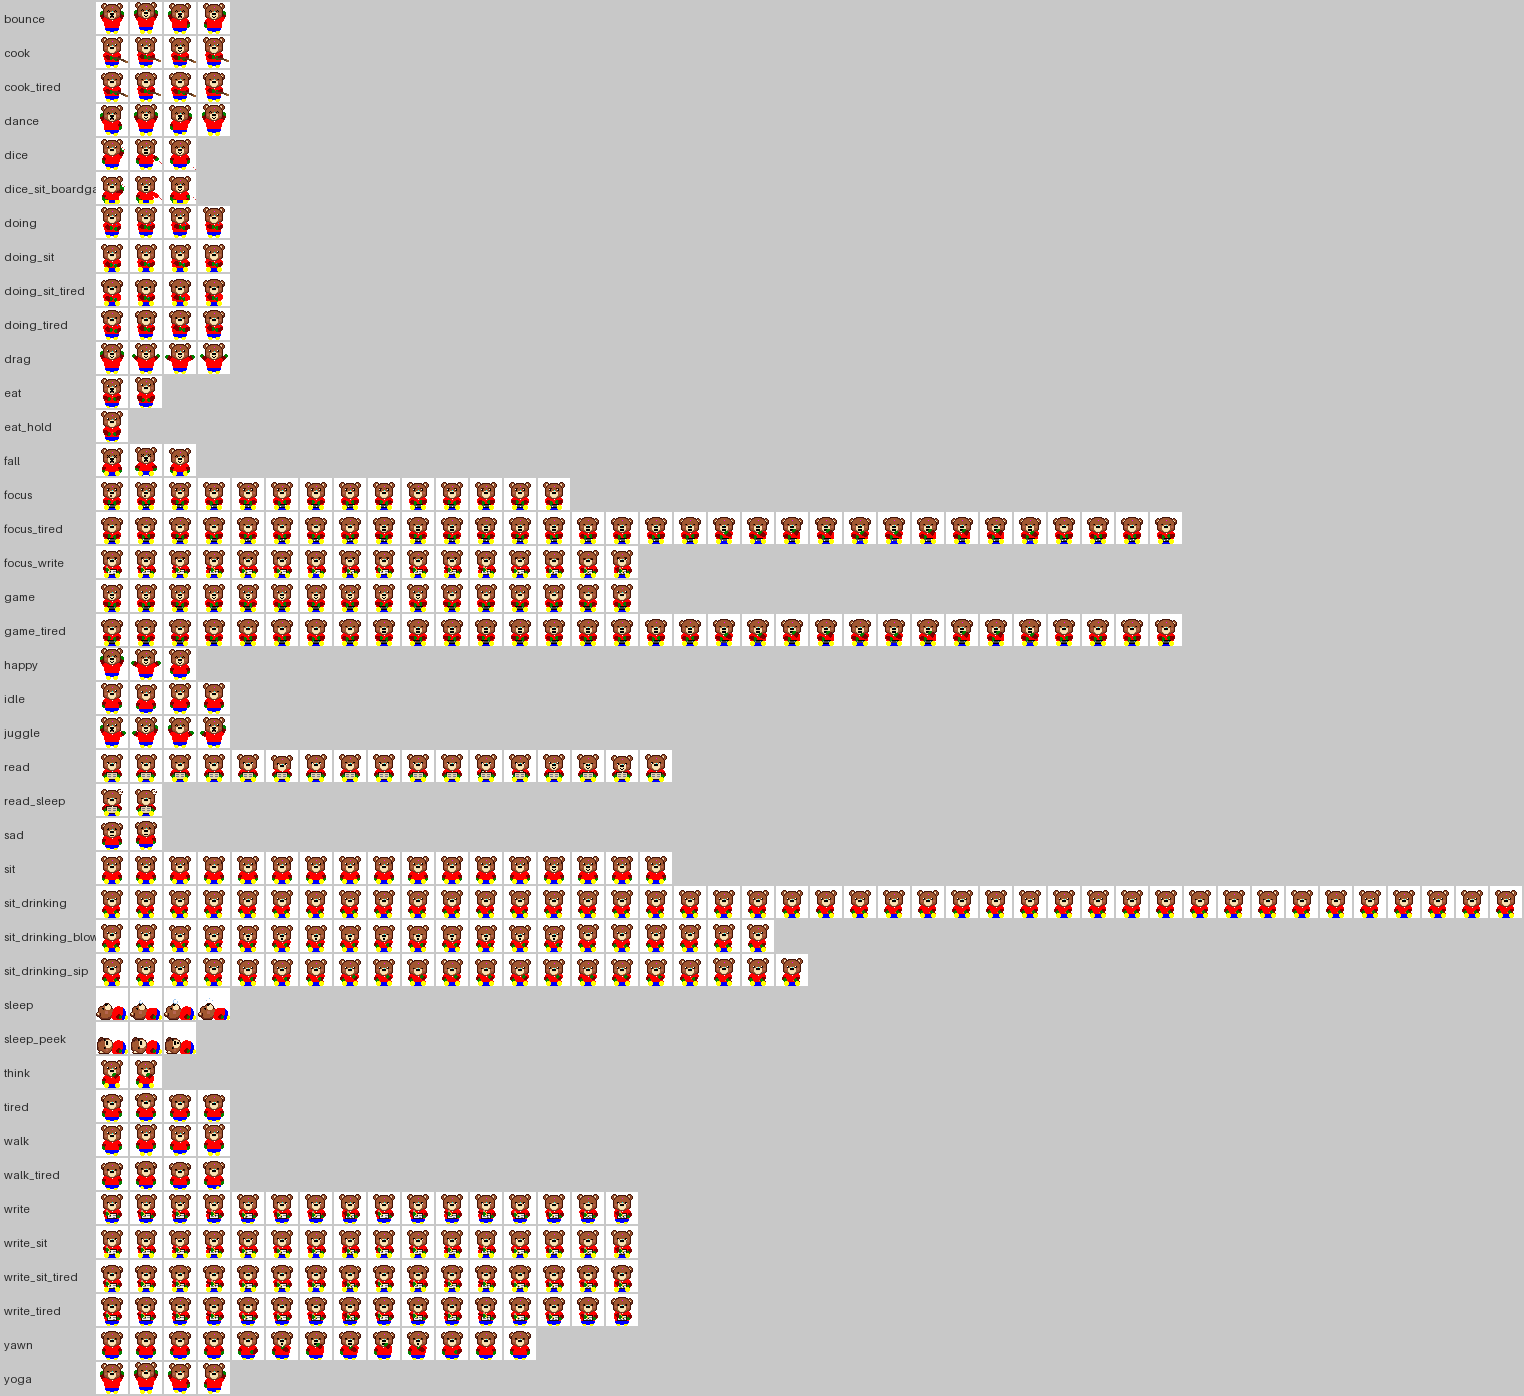
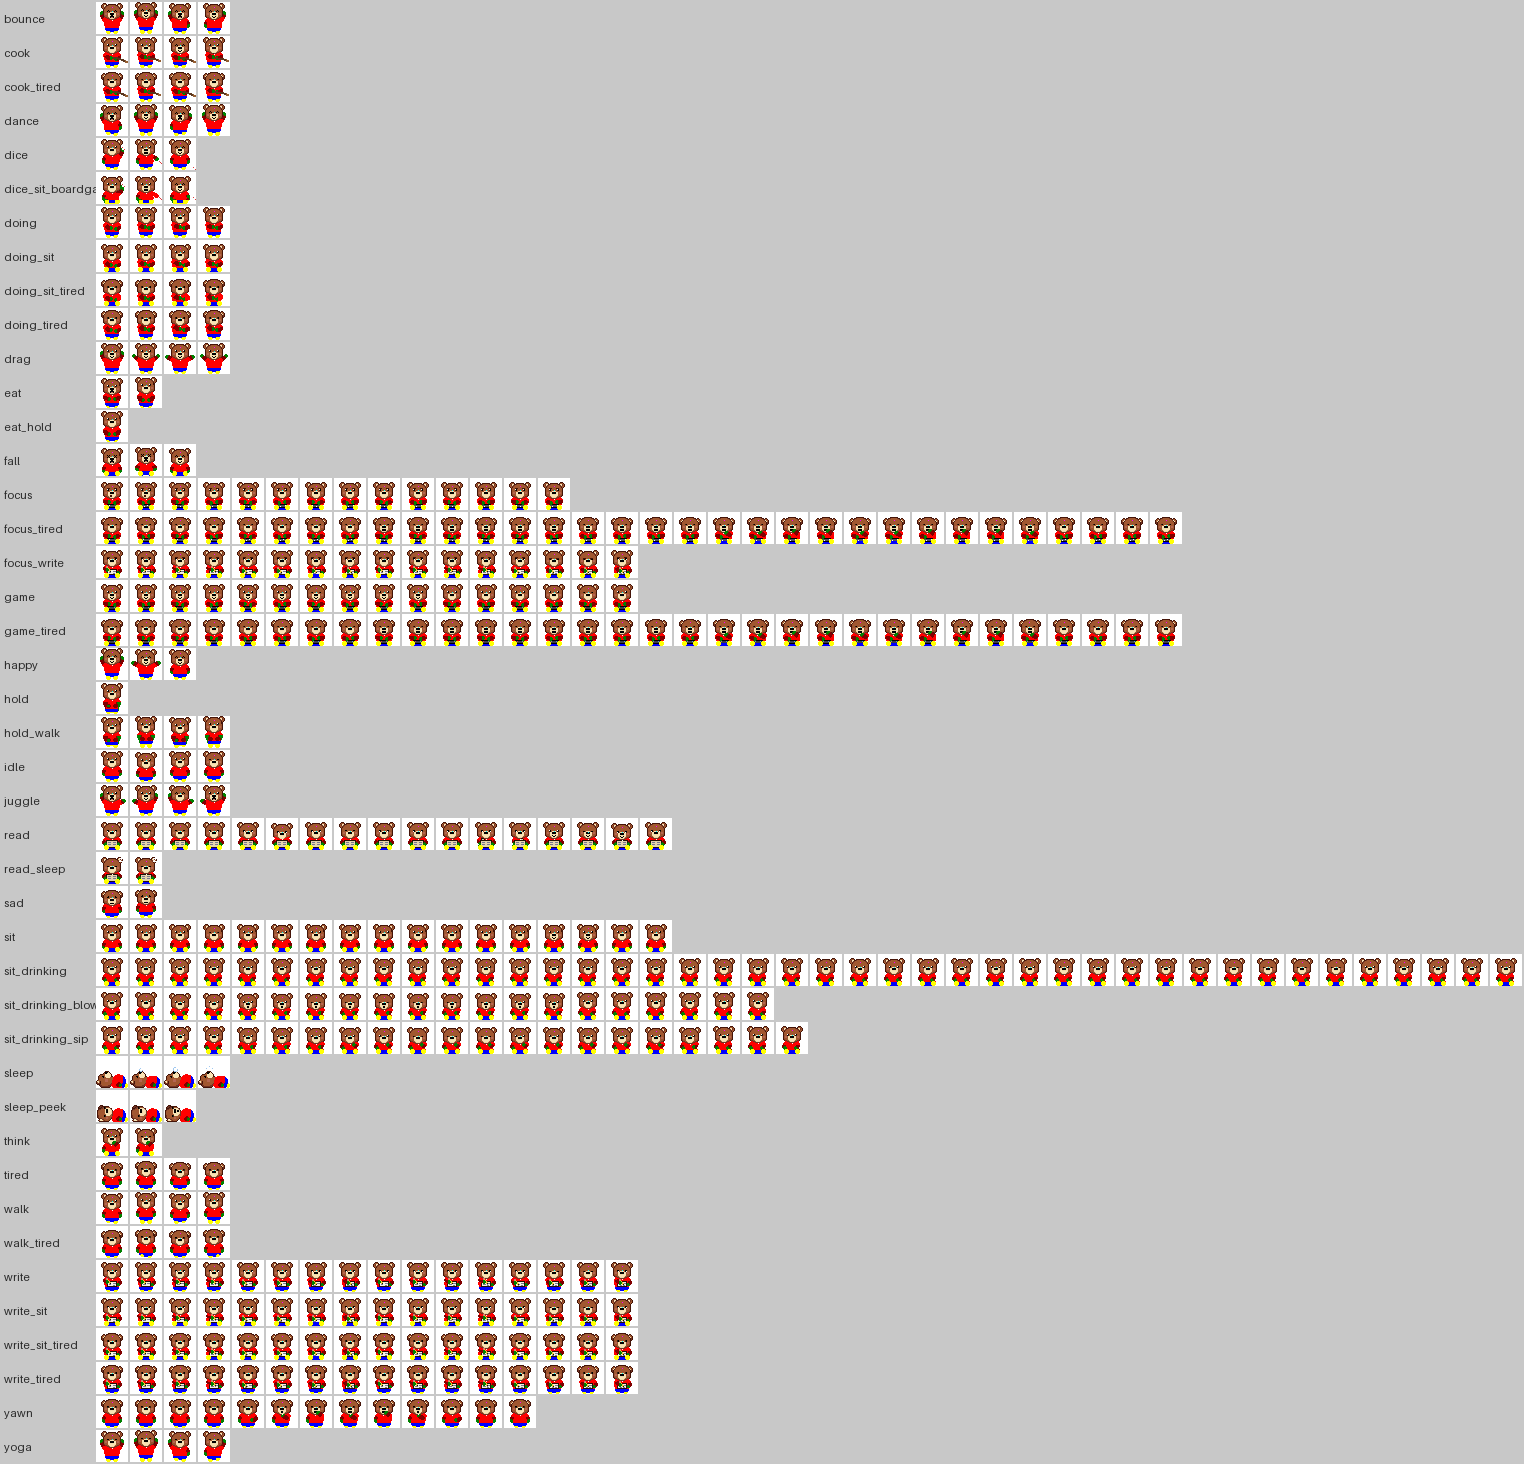
hold_sheet: one sheet with only the blue dot for everything the bear holds (brush/can/cards, food, cup, gift, pot – doing*, eat*, sit_drinking*, hold, hold_walk); the clothes sheet has all 43 animations and no held-item dots; the gift and the pot in the paws sit on the blue dot when there is one
Claude-Session: https://claude.ai/code/session_018yUitM4zMV3L9odfX6GAV1

diff --git a/tools/clothes_sheet.py b/tools/clothes_sheet.py
@@ -4,8 +4,8 @@
     python tools/clothes_sheet.py import       чете маркирания лист (done_art/clothes_sheet.png)
     python tools/clothes_sheet.py new a b c    лист само с тези анимации (clothes_sheet_new*.png)
     python tools/clothes_sheet.py import done_art/clothes_sheet_new.png
-    python tools/clothes_sheet.py points        лист само за синята точка (предмета в лапата)
-    python tools/clothes_sheet.py import-points чете го (done_art/tool_points.png)
+    python tools/clothes_sheet.py hold          hold_sheet: само синята точка – какво държи в лапите
+    python tools/clothes_sheet.py import-hold   чете го (done_art/hold_sheet.png)
 
 art_templates/clothes_sheet.png – мечокът без дрехи, кадрите един до друг, по
 един ред на анимация (размерът е 1:1, пиксел за пиксел). Тут го отваря в
@@ -35,7 +35,8 @@ SIZE, GAP, LABEL = 32, 2, 96
 
 
 def anims():
-    return ac.all_anims()   # нарисуваните, които ги има (без махнатите)
+    """Всички анимации на мечока, които ги има в assets/bear."""
+    return sorted(os.path.splitext(f)[0] for f in os.listdir(BEAR) if f.endswith(".png"))
 
 
 def layout(names=None):
@@ -67,7 +68,8 @@ def export(names=None, out="clothes_sheet"):
         strip = Image.open(os.path.join(BEAR, f"{r['anim']}.png")).convert("RGBA")
         paint_path = os.path.join(ac.PAINT, f"{r['anim']}.png")
         paint = Image.open(paint_path).convert("RGBA") if os.path.exists(paint_path) else None
-        dots = {n: os.path.join(ac.PAINT, f"{r['anim']}_{n}.png") for n in ac.POINT_COLORS}
+        # Точките на това, което държи (tool, cup), са в hold_sheet – тук не се показват.
+        dots = {n: os.path.join(ac.PAINT, f"{r['anim']}_{n}.png") for n in ac.POINT_COLORS if n not in HOLD_POINTS}
         dots = {n: Image.open(p).convert("RGBA") for n, p in dots.items() if os.path.exists(p)}
         for f in range(r["frames"]):
             frame = strip.crop((f * SIZE, 0, f * SIZE + SIZE, SIZE))
@@ -238,37 +240,50 @@ def import_sheet(path):
     print("Нови карти:", ", ".join(done) or "няма маркирани редове")
 
 
-def holding_anims():
-    """Анимациите с предмет в лапата (четка, лейка, карти…) – тези с точка tool."""
-    return [a for a in anims() if a.startswith(("doing", "knit", "guitar"))]
+# Какво държи в лапите: четка/лейка/карти (tool), храна и чаша (cup), подарък/саксия (tool).
+HOLD_POINTS = ("tool", "cup")
 
 
-def export_points(out="tool_points"):
+def hold_point(anim):
+    """В кой слой отива синята точка от hold_sheet за тази анимация."""
+    return "cup" if anim.startswith(("eat", "sit_drinking")) else "tool"
+
+
+def hold_anims():
+    """Анимациите, в които мечето държи нещо."""
+    return [a for a in anims() if a.startswith(("doing", "knit", "guitar", "hold", "eat", "sit_drinking"))]
+
+
+def export_hold(out="hold_sheet"):
     """
-    Лист само за синята точка: мечокът без карта, по ред на анимация с предмет в лапата.
-    tool_points.png е празен (Тут слага по една синя точка (0,128,255) на кадър – там отива
-    средата на предмета); tool_points_now.png е същото със сегашните точки отгоре.
+    hold_sheet: само синята точка (0,128,255) – по една на кадър, там отива средата на
+    това, което държи (четка, лейка, карти, храна, чаша, подарък, саксия). Мечокът е без
+    карта на дрехите. hold_sheet.png е празен, hold_sheet_now.png е със сегашните точки.
     """
     os.makedirs(OUTDIR, exist_ok=True)
-    rows, width, height = layout(holding_anims())
+    rows, width, height = layout(hold_anims())
     bg = (200, 200, 200, 255)
     bare = Image.new("RGBA", (width, height), bg)
     now = Image.new("RGBA", (width, height), bg)
     font = ImageFont.load_default(size=11)
+    blue = ac.POINT_COLORS["tool"] + (255,)
     for img in (bare, now):
         d = ImageDraw.Draw(img)
         for r in rows:
             d.text((4, r["y"] + 10), r["anim"], fill=(40, 40, 40), font=font)
     for r in rows:
         strip = Image.open(os.path.join(BEAR, f"{r['anim']}.png")).convert("RGBA")
-        dot_path = os.path.join(ac.PAINT, f"{r['anim']}_tool.png")
+        dot_path = os.path.join(ac.PAINT, f"{r['anim']}_{hold_point(r['anim'])}.png")
         dot = Image.open(dot_path).convert("RGBA") if os.path.exists(dot_path) else None
         for f in range(r["frames"]):
             cell = Image.new("RGBA", (SIZE, SIZE), (255, 255, 255, 255))
             cell.alpha_composite(strip.crop((f * SIZE, 0, f * SIZE + SIZE, SIZE)))
             bare.paste(cell, (cell_x(f), r["y"]))
-            if dot is not None:
-                cell.alpha_composite(dot.crop((f * SIZE, 0, f * SIZE + SIZE, SIZE)))
+            if dot is not None:   # и точката на храната/чашата е синя тук
+                for y in range(SIZE):
+                    for x in range(SIZE):
+                        if f * SIZE + x < dot.width and dot.getpixel((f * SIZE + x, y))[3]:
+                            cell.putpixel((x, y), blue)
             now.paste(cell, (cell_x(f), r["y"]))
     bare.save(os.path.join(OUTDIR, f"{out}.png"))
     now.save(os.path.join(OUTDIR, f"{out}_now.png"))
@@ -277,46 +292,47 @@ def export_points(out="tool_points"):
     print(f"art_templates/{out}.png, {out}_now.png")
 
 
-def import_points(path):
+def import_hold(path):
     """Само синята точка: картата на дрехите не се пипа, цветът под точката остава."""
     sheet = Image.open(path).convert("RGBA")
-    with open(os.path.join(OUTDIR, "tool_points.json"), encoding="utf-8") as fh:
+    with open(os.path.join(OUTDIR, "hold_sheet.json"), encoding="utf-8") as fh:
         rows = json.load(fh)
     done = []
     for r in rows:
         anim = r["anim"]
-        dot_path = os.path.join(ac.PAINT, f"{anim}_tool.png")
-        strip_w = r["frames"] * SIZE
+        layer = hold_point(anim)
+        dot_path = os.path.join(ac.PAINT, f"{anim}_{layer}.png")
         old = Image.open(dot_path).convert("RGBA") if os.path.exists(dot_path) else None
-        dots = Image.new("RGBA", (strip_w, SIZE), (0, 0, 0, 0))
+        dots = Image.new("RGBA", (r["frames"] * SIZE, SIZE), (0, 0, 0, 0))
         changed = False
         for f in range(r["frames"]):
+            # Синя точка (и оранжевата от стария лист за храната – и тя става).
             pts = [(x, y) for y in range(SIZE) for x in range(SIZE)
                    if cell_x(f) + x < sheet.width and r["y"] + y < sheet.height
                    and sheet.getpixel((cell_x(f) + x, r["y"] + y))[3]
-                   and point_of(sheet.getpixel((cell_x(f) + x, r["y"] + y))[:3]) == "tool"]
+                   and point_of(sheet.getpixel((cell_x(f) + x, r["y"] + y))[:3]) in HOLD_POINTS]
             if len(pts) == 1:
                 x, y = pts[0]
-                dots.putpixel((f * SIZE + x, y), ac.POINT_COLORS["tool"] + (255,))
+                dots.putpixel((f * SIZE + x, y), ac.POINT_COLORS[layer] + (255,))
                 changed = True
             else:
                 if len(pts) > 1:
-                    print(f"{anim}, кадър {f + 1}: {len(pts)} сини точки – остава старата")
+                    print(f"{anim}, кадър {f + 1}: {len(pts)} точки – остава старата")
                 if old is not None:   # кадър без (ясна) точка – пази старата
                     dots.paste(old.crop((f * SIZE, 0, f * SIZE + SIZE, SIZE)), (f * SIZE, 0))
-        if not changed:
+        if not changed or (old is not None and old.tobytes() == dots.tobytes()):
             continue
         dots.save(dot_path)
         ac.main(anim)
         done.append(anim)
-    print("Нови точки:", ", ".join(done) or "няма")
+    print("Нови точки:", ", ".join(done) or "няма промени")
 
 
 if __name__ == "__main__":
-    if sys.argv[1:2] == ["points"]:
-        export_points()
-    elif sys.argv[1:2] == ["import-points"]:
-        import_points(sys.argv[2] if len(sys.argv) > 2 else os.path.join(ROOT, "done_art", "tool_points.png"))
+    if sys.argv[1:2] == ["hold"]:
+        export_hold()
+    elif sys.argv[1:2] == ["import-hold"]:
+        import_hold(sys.argv[2] if len(sys.argv) > 2 else os.path.join(ROOT, "done_art", "hold_sheet.png"))
     elif sys.argv[1:2] == ["import"]:
         import_sheet(sys.argv[2] if len(sys.argv) > 2 else os.path.join(ROOT, "done_art", "clothes_sheet.png"))
     elif sys.argv[1:2] == ["new"]:

diff --git a/src/Mecho/PetWindow.Garden.cs b/src/Mecho/PetWindow.Garden.cs
@@ -122,6 +122,19 @@ public sealed partial class PetWindow
         return Dresser.FirstPoint(strip[_lib.Get(_anim).IndexAt(_animTime) % strip.Length]);
     }
 
+    /// <summary>
+    /// Средата на предмета в лапите (синята точка от hold_sheet) спрямо мечока: колко е
+    /// вдясно от средата му и колко над земята (отрицателно), в пиксели на екрана.
+    /// </summary>
+    private (double Dx, double Dy)? HoldOffset()
+    {
+        if (ToolPoint() is not { } p || _bearRect.IsEmpty) return null;
+        var (px, py) = p;
+        if (_facingLeft) px = _lib.FrameWidth - 1 - px;
+        double cx = _bearRect.Left + (px + 0.5) * PixelSize, cy = _bearRect.Top + (py + 0.5) * PixelSize;
+        return (cx - (_bearRect.Left + _bearRect.Width / 2), cy - _bearRect.Bottom);
+    }
+
     /// <summary>Отива към по-близкия ръб, излиза зад него и се връща, като дърпа саксията след себе си.</summary>
     private void StartGarden()
     {
@@ -202,9 +215,18 @@ public sealed partial class PetWindow
         double bottom = _save.PlantPlaced && !_plantPushing ? AreaAt(PlantSpot, _y - 1).Bottom + PixelSize : Ground(_y) + PixelSize;
         if (PlantInPaws)
         {
-            // В лапите, точно пред него (hold/hold_walk са с лице напред), на височината на лапите.
-            center = _x;
-            bottom = _y - 9 * PixelSize;
+            // В лапите: средата на саксията е на синята точка (hold_sheet); без точка – точно
+            // пред него (hold/hold_walk са с лице напред), на височината на лапите.
+            if (HoldOffset() is { } o)
+            {
+                center = _x + o.Dx;
+                bottom = _y + o.Dy + _plant.Height / 2;
+            }
+            else
+            {
+                center = _x;
+                bottom = _y - 9 * PixelSize;
+            }
         }
         bool shown = _plantOut > 0 && IsVisible;
         if (shown) _gardenWindow.Place(center - _plant.Width / 2, bottom - _plant.Height);

diff --git a/src/Mecho/PetWindow.Gifts.cs b/src/Mecho/PetWindow.Gifts.cs
@@ -293,7 +293,15 @@ public sealed partial class PetWindow
         double w = img.PixelWidth * PixelSize * 0.75, h = img.PixelHeight * PixelSize * 0.75;
         _carry.Width = w;
         _carry.Height = h;
-        // hold/hold_walk са с лице напред: подаръкът е в средата, малко подскача при ходене.
+        // Средата на подаръка е на синята точка (hold_sheet). Без точка: hold/hold_walk са с лице
+        // напред – в средата, малко подскача при ходене.
+        if (ToolPoint() is { } p)
+        {
+            var (px, py) = p;
+            if (_facingLeft) px = _lib.FrameWidth - 1 - px;
+            double cx = bear.Left + (px + 0.5) * PixelSize, cy = bear.Top + (py + 0.5) * PixelSize;
+            return new Rect(cx - w / 2, cy - h / 2, w, h);
+        }
         double bob = _state == BearState.Walk ? Math.Abs(Math.Sin(Now * 8)) * PixelSize : 0;
         return new Rect(bear.Left + bear.Width / 2 - w / 2, bear.Top + bear.Height * 0.68 - h / 2 - bob, w, h);
     }
